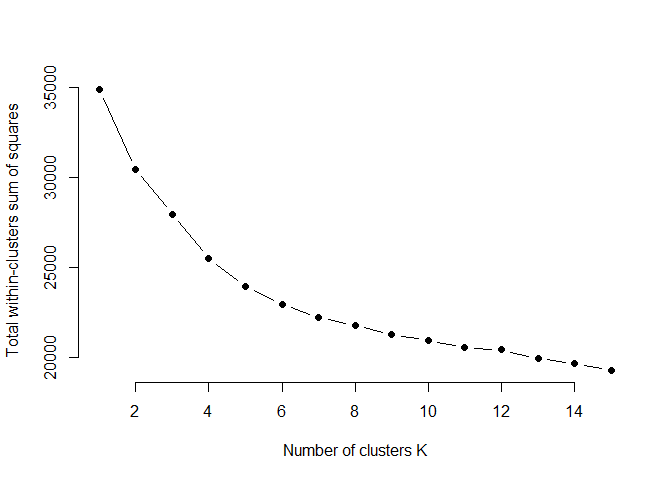
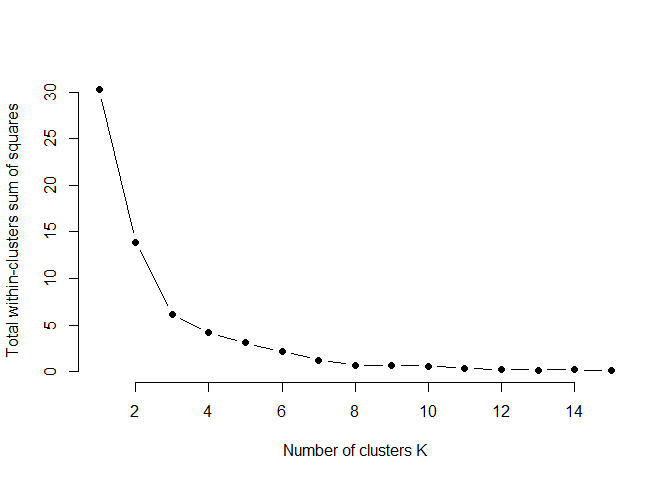
update README with nanostring data

diff --git a/README.md b/README.md
@@ -58,14 +58,14 @@ x <- 1
 matrixCounts <- build_matrix(input_data, x)
 ```
 
-|        | No_Template_Control_NA_NA_NA_NA | disease3_DKD_glomerulus_Geometric_Segment_7 | disease3_DKD_glomerulus_Geometric_Segment_8 | disease3_DKD_glomerulus_Geometric_Segment_9 |
-|:-------|--------------------------------:|--------------------------------------------:|--------------------------------------------:|--------------------------------------------:|
-| A2M    |                               0 |                                  1183.26647 |                                   983.54729 |                                   998.63466 |
-| NAT2   |                               0 |                                    36.59587 |                                    67.57195 |                                    22.19188 |
-| ACADM  |                               0 |                                    75.63146 |                                    56.30996 |                                    66.57564 |
-| ACADS  |                               0 |                                    65.87257 |                                    63.81795 |                                   106.52103 |
-| ACAT1  |                               0 |                                    70.75202 |                                    90.09594 |                                    93.20590 |
-| ACVRL1 |                               0 |                                   126.86568 |                                    82.58794 |                                   106.52103 |
+|        | No_Template_Control_NA_NA_NA_NA | disease3_DKD_glomerulus_Geometric_Segment_7 | disease3_DKD_glomerulus_Geometric_Segment_8 | disease4_DKD_tubule_PanCK_1 |
+|:-------|--------------------------------:|--------------------------------------------:|--------------------------------------------:|----------------------------:|
+| A2M    |                               0 |                                  1183.26647 |                                   983.54729 |                    87.92538 |
+| NAT2   |                               0 |                                    36.59587 |                                    67.57195 |                    74.04243 |
+| ACADM  |                               0 |                                    75.63146 |                                    56.30996 |                    92.55303 |
+| ACADS  |                               0 |                                    65.87257 |                                    63.81795 |                   106.43599 |
+| ACAT1  |                               0 |                                    70.75202 |                                    90.09594 |                   236.01024 |
+| ACVRL1 |                               0 |                                   126.86568 |                                    82.58794 |                    64.78712 |
 
 ``` r
 parameter1 = "DKD"
@@ -74,23 +74,23 @@ factors_for_individual_matrix = list(parameter1, parameter2)
 indiMatrix <- individual_matrix(factors_for_individual_matrix, matrixCounts)
 ```
 
-|        | disease3_DKD_glomerulus_Geometric_Segment_7 | disease3_DKD_glomerulus_Geometric_Segment_8 | disease3_DKD_glomerulus_Geometric_Segment_9 | disease3_DKD_glomerulus_Geometric_Segment_10 | disease3_DKD_glomerulus_Geometric_Segment_11 | disease3_DKD_glomerulus_Geometric_Segment_12 | disease3_DKD_glomerulus_Geometric_Segment_13 | disease3_DKD_glomerulus_Geometric_Segment_14 | disease3_DKD_glomerulus_Geometric_Segment_15 |
-|:-------|--------------------------------------------:|--------------------------------------------:|--------------------------------------------:|---------------------------------------------:|---------------------------------------------:|---------------------------------------------:|---------------------------------------------:|---------------------------------------------:|---------------------------------------------:|
-| A2M    |                                  1183.26647 |                                   983.54729 |                                   998.63466 |                                   1028.69264 |                                   1224.92442 |                                   1063.33917 |                                   1028.05127 |                                    837.26290 |                                   1175.80633 |
-| NAT2   |                                    36.59587 |                                    67.57195 |                                    22.19188 |                                     62.64474 |                                     56.56845 |                                     44.71987 |                                     42.83547 |                                     61.84328 |                                     34.95640 |
-| ACADM  |                                    75.63146 |                                    56.30996 |                                    66.57564 |                                     82.42729 |                                     67.44699 |                                     89.43974 |                                     76.15195 |                                     66.60046 |                                     63.55710 |
-| ACADS  |                                    65.87257 |                                    63.81795 |                                   106.52103 |                                     62.64474 |                                     93.55551 |                                     74.53312 |                                     61.87346 |                                     61.84328 |                                     98.51350 |
-| ACAT1  |                                    70.75202 |                                    90.09594 |                                    93.20590 |                                     56.05056 |                                    100.08263 |                                     59.62650 |                                     76.15195 |                                     95.14351 |                                     50.84568 |
-| ACVRL1 |                                   126.86568 |                                    82.58794 |                                   106.52103 |                                     85.72439 |                                    110.96118 |                                     89.43974 |                                    104.70893 |                                     71.35763 |                                     76.26852 |
+|        | disease3_DKD_glomerulus_Geometric_Segment_7 | disease3_DKD_glomerulus_Geometric_Segment_8 | disease1B_DKD_glomerulus_Geometric_Segment_14 | disease2B_DKD_glomerulus_WT1_1 |
+|:-------|--------------------------------------------:|--------------------------------------------:|----------------------------------------------:|-------------------------------:|
+| A2M    |                                  1183.26647 |                                   983.54729 |                                     684.32136 |                       102.5730 |
+| NAT2   |                                    36.59587 |                                    67.57195 |                                      68.43214 |                         0.0000 |
+| ACADM  |                                    75.63146 |                                    56.30996 |                                      34.21607 |                         0.0000 |
+| ACADS  |                                    65.87257 |                                    63.81795 |                                      91.24285 |                         0.0000 |
+| ACAT1  |                                    70.75202 |                                    90.09594 |                                      68.43214 |                         0.0000 |
+| ACVRL1 |                                   126.86568 |                                    82.58794 |                                     125.45892 |                       153.8595 |
 
 **Filtering the matrix for only an x amount of most variably expressed
 genes:**
 
 ``` r
-top_number_of_genes <- 500
+top_number_of_genes <- 20
 varGenesMatrix <- filtering_for_top_exprGenes(indiMatrix, top_number_of_genes)
 print(nrow(varGenesMatrix))
-#> [1] 500
+#> [1] 20
 ```
 
 **Using Z-score scaling to scale the values of the matrix:**
@@ -111,6 +111,18 @@ show_data_distribution(scaled_counts)
 ``` r
 seed <- 1 # setting a seed for a reproducible outcome
 elbow_plot(seed, scaled_counts)
+#> Warning: empty cluster: try a better set of initial centers
+#> Warning: empty cluster: try a better set of initial centers
+#> Warning: empty cluster: try a better set of initial centers
+#> Warning: empty cluster: try a better set of initial centers
+#> Warning: empty cluster: try a better set of initial centers
+#> Warning: empty cluster: try a better set of initial centers
+#> Warning: empty cluster: try a better set of initial centers
+#> Warning: empty cluster: try a better set of initial centers
+#> Warning: empty cluster: try a better set of initial centers
+#> Warning: empty cluster: try a better set of initial centers
+#> Warning: empty cluster: try a better set of initial centers
+#> Warning: empty cluster: try a better set of initial centers
 ```
 
 <img src="man/figures/README-exampleElbowPlot-1.png" width="100%" /> As
@@ -120,35 +132,35 @@ overview.
 
 ``` r
 #print(colnames(scaled_counts))
-probes <- list("disease3_DKD_glomerulus_Geometric_Segment", "disease4_DKD_glomerulus_Geometric_Segment", "disease2B_DKD_glomerulus_Geometric_Segment")
+probes <- list("disease3_DKD_glomerulus_Geometric_Segment", "disease1B_DKD_glomerulus_Geometric_Segment", "disease2B_DKD_glomerulus_WT")
 sumBioRepsMatrix <- summarise_bio_replicates(scaled_counts, probes)
 ```
 
-|        | disease3_DKD_glomerulus_Geometric_Segment | disease4_DKD_glomerulus_Geometric_Segment | disease2B_DKD_glomerulus_Geometric_Segment |
-|:-------|------------------------------------------:|------------------------------------------:|-------------------------------------------:|
-| PTBP1  |                                 0.1658914 |                                 1.3262507 |                                 -0.3451329 |
-| HBA2   |                                -0.3215282 |                                 2.5176004 |                                 -0.0355711 |
-| REN    |                                -0.1254242 |                                -0.2322258 |                                  1.0018659 |
-| HSPA1A |                                -0.2666545 |                                 1.9438170 |                                 -0.1998299 |
-| TIMP3  |                                -0.1399782 |                                -0.8917626 |                                  1.2280850 |
-| CCN2   |                                -0.0166328 |                                -0.0896967 |                                  1.4178946 |
+|          | disease3_DKD_glomerulus_Geometric_Segment | disease1B_DKD_glomerulus_Geometric_Segment | disease2B_DKD_glomerulus_WT |
+|:---------|------------------------------------------:|-------------------------------------------:|----------------------------:|
+| A2M      |                                 0.7326170 |                                 -0.1149016 |                  -1.3503324 |
+| C3       |                                -0.2893549 |                                  1.4431712 |                  -0.8644613 |
+| ALDOB    |                                -0.8564917 |                                  0.6752631 |                   1.0377204 |
+| SERPING1 |                                 0.1467075 |                                  1.0335593 |                  -1.3269742 |
+| APOE     |                                 0.8517822 |                                 -0.6496811 |                  -1.0538832 |
+| ASS1     |                                 0.2686383 |                                  0.8501191 |                  -1.3873957 |
 
 **Generating K-means for clustering in the heatmap:**
 
 ``` r
 seed <- 10 #set a seed for reproducibility, but try different seeds first
-k_clusters <- 4
+k_clusters <- 3
 K_meanTable <- Kmean_generation(sumBioRepsMatrix, seed, k_clusters)
 ```
 
-|          | disease3_DKD_glomerulus_Geometric_Segment | disease4_DKD_glomerulus_Geometric_Segment | disease2B_DKD_glomerulus_Geometric_Segment |     |
-|:---------|------------------------------------------:|------------------------------------------:|-------------------------------------------:|----:|
-| PTBP1    |                                 0.1658914 |                                  1.326251 |                                 -0.3451329 |   1 |
-| HBA2     |                                -0.3215282 |                                  2.517600 |                                 -0.0355711 |   1 |
-| HSPA1A   |                                -0.2666545 |                                  1.943817 |                                 -0.1998299 |   1 |
-| HSP90AA1 |                                -0.2396252 |                                  2.111296 |                                 -0.1852615 |   1 |
-| HSPA1B   |                                -0.2427051 |                                  1.857943 |                                 -0.2052410 |   1 |
-| HBB      |                                -0.3113832 |                                  2.153545 |                                  0.1469509 |   1 |
+|       | disease3_DKD_glomerulus_Geometric_Segment | disease1B_DKD_glomerulus_Geometric_Segment | disease2B_DKD_glomerulus_WT |     |
+|:------|------------------------------------------:|-------------------------------------------:|----------------------------:|----:|
+| ALDOB |                                -0.8564917 |                                  0.6752631 |                    1.037720 |   1 |
+| AGL   |                                -0.4895648 |                                 -0.5154561 |                    1.494586 |   1 |
+| A2M   |                                 0.7326170 |                                 -0.1149016 |                   -1.350332 |   2 |
+| APOE  |                                 0.8517822 |                                 -0.6496811 |                   -1.053883 |   2 |
+| ASL   |                                 0.5509249 |                                  0.3669706 |                   -1.468821 |   2 |
+| ACAT1 |                                 0.5859757 |                                  0.2818318 |                   -1.453783 |   2 |
 
 The most variable genes of each cluster are selected using the following
 function. A new object is created to save the most variable genes for
@@ -157,76 +169,43 @@ divided into individual cluster matrices. These matrices are then sorted
 by their variance.
 
 ``` r
-number_of_annotations_per_cluster <- 5
-k_clusters <- 4
+number_of_annotations_per_cluster <- 3
+k_clusters <- 3
 mostVarGeneslist <- most_variable_genes(K_meanTable, number_of_annotations_per_cluster, k_clusters)
 print(mostVarGeneslist)
 #> [[1]]
-#> [1] "HBA2"
+#> [1] "AGL"
 #> 
 #> [[2]]
-#> [1] "HSPB1"
+#> [1] "ALDOB"
 #> 
 #> [[3]]
-#> [1] "ADAM15"
+#> [1] NA
 #> 
 #> [[4]]
-#> [1] "HSP90AA1"
+#> [1] "ASL"
 #> 
 #> [[5]]
-#> [1] "HBB"
+#> [1] "APC"
 #> 
 #> [[6]]
-#> [1] "ADIRF"
+#> [1] "ACAT1"
 #> 
 #> [[7]]
-#> [1] "GSN"
+#> [1] "BTK"
 #> 
 #> [[8]]
-#> [1] "HLA-DRA"
+#> [1] "ACADS"
 #> 
 #> [[9]]
-#> [1] "S100A6"
-#> 
-#> [[10]]
-#> [1] "SLCO2A1"
-#> 
-#> [[11]]
-#> [1] "FTH1"
-#> 
-#> [[12]]
-#> [1] "F2RL3"
-#> 
-#> [[13]]
-#> [1] "CYP26B1"
-#> 
-#> [[14]]
-#> [1] "PLIN2"
-#> 
-#> [[15]]
-#> [1] "CIRBP"
-#> 
-#> [[16]]
-#> [1] "DUX4"
-#> 
-#> [[17]]
-#> [1] "FAM90A1"
-#> 
-#> [[18]]
-#> [1] "SLC9A3R2"
-#> 
-#> [[19]]
-#> [1] "ELOA3D"
-#> 
-#> [[20]]
-#> [1] "PLPP3"
+#> [1] "C3"
 ```
 
 **To set the annotation for a heatmap the following function can be
 used:**
 
 ``` r
-number_of_annotations_per_cluster <- 5
+number_of_annotations_per_cluster <- 3
 annotation_for_heatmap <- set_annotation(sumBioRepsMatrix, number_of_annotations_per_cluster)
 ```
 
@@ -235,7 +214,7 @@ k-means clustering outside of the general heatmap function. This allows
 for a more reliable splitting of the heatmap by its assigned clusters.
 
 ``` r
-k_clusters <- 2
+k_clusters <- 3
 split_heatmap_clusters <- performing_kMeans(sumBioRepsMatrix, k_clusters)
 ```
 
@@ -293,14 +272,14 @@ hm <- function_complexHeatmap_var(scaled_counts, probes, number_of_annotations_p
 as in this example:**
 
 ``` r
-probes <- list("disease3_DKD_glomerulus_Geometric_Segment", "disease4_DKD_glomerulus_Geometric_Segment", "disease2B_DKD_glomerulus_Geometric_Segment")
+probes <- list("disease3_DKD_glomerulus_Geometric_Segment", "disease1B_DKD_glomerulus_Geometric_Segment", "disease2B_DKD_glomerulus_WT")
 sumBioRepsMatrix <- summarise_bio_replicates(scaled_counts, probes)
 
 seed <- 1
-k_clusters <- 4
+k_clusters <- 3
 K_meanTable <- Kmean_generation(sumBioRepsMatrix, seed, k_clusters)
 
-anno_specific_genes <- list("CALM2", "SAT1", "NPHS2", "ALDOB", "HBB", "SPOCK2", "CD81", "LAMP1")
+anno_specific_genes <- list("C3", "ALDOB", "ACADS", "APOE")
 annotation_for_heatmap <- set_annotation(sumBioRepsMatrix, anno_specific_genes)
 split_heatmap_clusters <- performing_kMeans(sumBioRepsMatrix, k_clusters)
 
